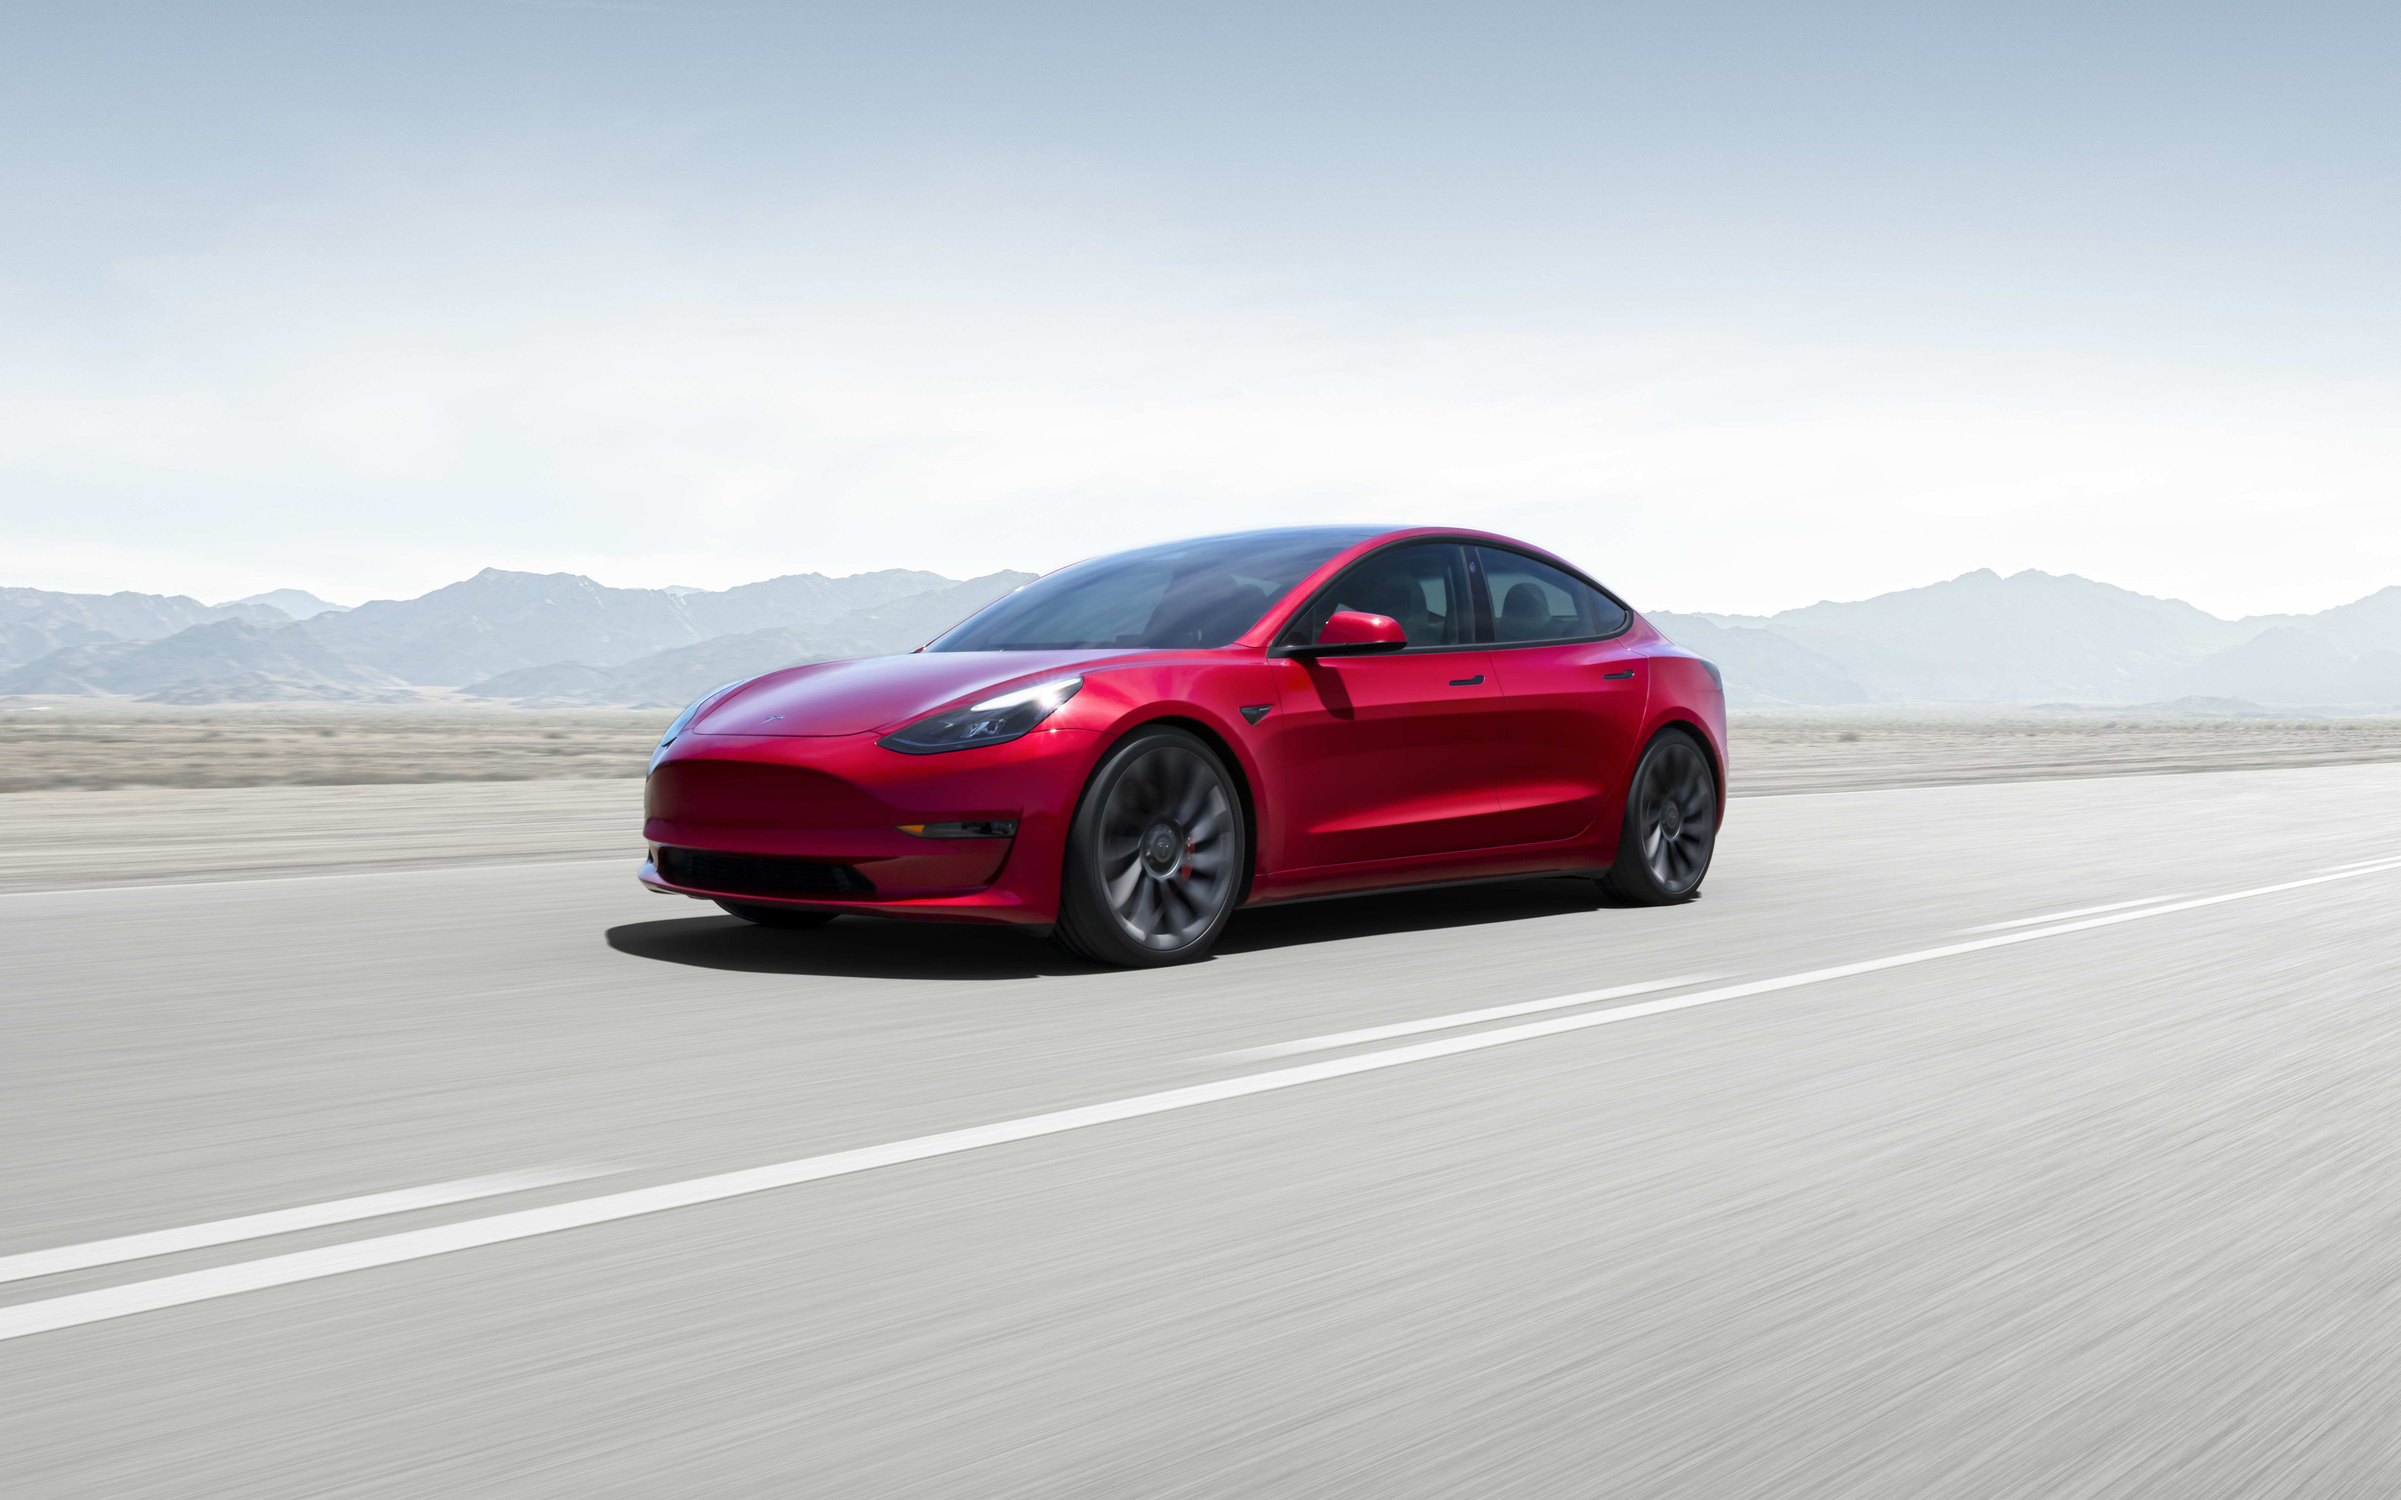
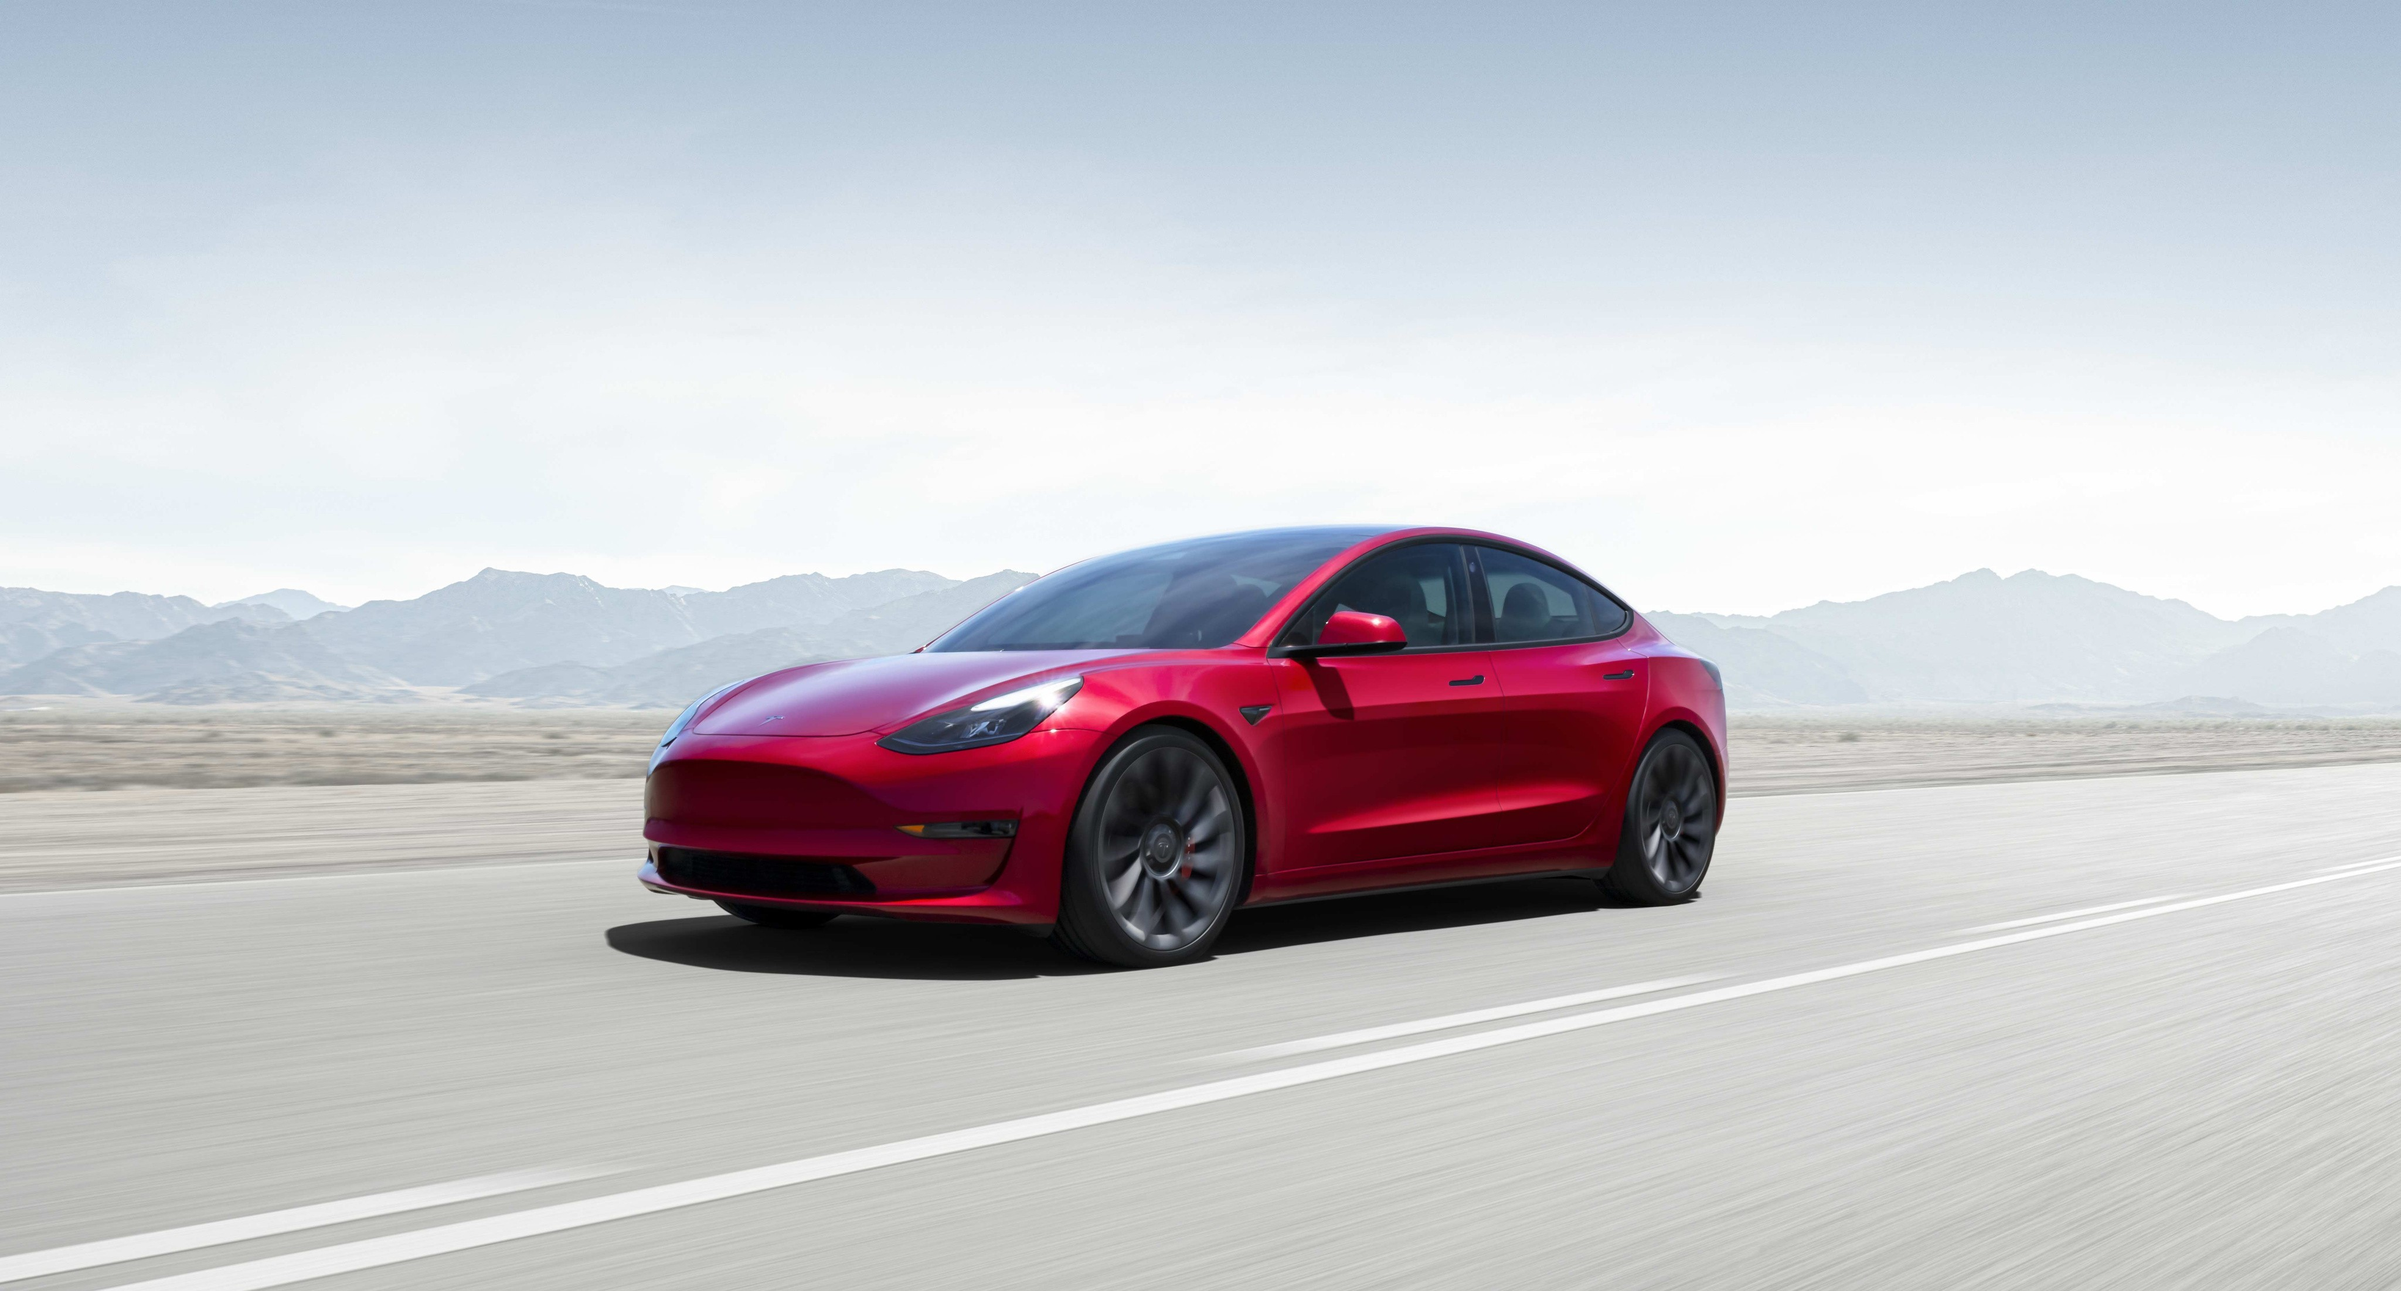
Navigation bar for the page is created

diff --git a/tesla-website.css b/tesla-website.css
@@ -1,10 +1,13 @@
 body {
     margin: 0;
 }
+header {
+    padding-bottom: 60px;
+}
 .header {
     width: 100%;
     height: 60px;
-    background: gray;
+    background: white;
     position: fixed;
 }
 .header-title {
@@ -12,4 +15,73 @@ body {
     font-family: Verdana, Geneva, Tahoma, sans-serif; 
     font-size: 14px;
     margin-top: 22px;
+    color: rgb(86, 86, 86);
+}
+.model3-img {
+    background-position: center;
+    background-size: cover;
+    width: 100%;
+    height: 900px;
+    position: absolute;
+}
+#nav-bar {
+    width: 100%;
+    height: 60px;
+    position: relative;
+    float: left;
+}
+.tesla-logo {
+    width: 140px;
+    margin: 1.5%;
+    float: left;
+    padding-right: 18%;
+}
+.nav-models li{
+    float: left;
+    list-style: none;
+    margin-left: 35px;
+    font-size: 15px;
+}
+.nav-models a{
+    text-decoration: none;
+    color: #3e3e3e;
+    list-style: none;
+    font-family: system-ui;
+    font-weight: 500;
+    letter-spacing: 0.5px;
+    cursor: pointer;
+}
+.nav-models a:hover{
+    background: rgb(154, 154, 154);
+    transition: 0.5s;
+}
+.nav-models {
+    margin-top: 1.5%;
+    width: 680px;
+    float: left;
+    padding-right: 280px;
+}
+.nav-details li{
+    float: left;
+    list-style: none;
+    margin-left: 35px;
+    font-size: 15px;
+}
+.nav-details a{
+    text-decoration: none;
+    color: #3e3e3e;
+    list-style: none;
+    font-family: system-ui;
+    font-weight: 500;
+    letter-spacing: 0.5px;
+    cursor: pointer;
+}
+.nav-details a:hover{
+    background: rgb(154, 154, 154);
+    transition: 0.5s;
+}
+.nav-details {
+    width: 250px;
+    float: left;
+    margin-top: 1.5%;
 }

diff --git a/index.html b/index.html
@@ -13,7 +13,27 @@
             <p class="header-title">Until March 2023, certain new Model 3 and Model Y vehicles qualify for a $7,500 federal tax credit for eligible buyers. Learn More</p>
         </div>
     </header>
-    <main-body></main-body>
+    <main-body>
+        <div class="page-body">
+            <img src="model3.jpeg" class="model3-img">
+            <div id="nav-bar">
+                <img src="tesla-fond.png" class="tesla-logo">
+                <ul class="nav-models">
+                    <li><a href="#MODEL-1">Model S</a></li>
+                    <li><a href="MODEL-2">Model 3</a></li>
+                    <li><a href="MODEL-3">Model X</a></li>
+                    <li><a href="MODEL-4">Model Y</a></li>
+                    <li><a href="MODEL-5">Solar Roof</a></li>
+                    <li><a href="MODEL-6">Solar Panels</a></li>
+                </ul>
+                <ul class="nav-details">
+                    <li><a href="#DETAL-1">Shop</a></li>
+                    <li><a href="#DETAL-2">Account</a></li>
+                    <li><a href="#DETAL-3">Menu</a></li>
+                </ul>
+            </div>
+        </div>
+    </main-body>
     <footer></footer>
 </body>
 </html>
